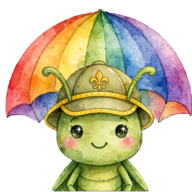
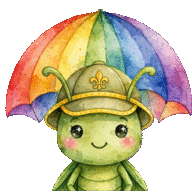
🚀 Vercel 部署瘦身與防呆：.vercelignore＋圖片 WebP/PNG8＋只部署 main
- .vercelignore 排除 docs/tests/tools/*.md、設計原檔、吉祥物母版 PNG、ICON 來源與非執行尺寸（部署 8.5MB→4.97MB）
- 吉祥物 1045KB PNG 母版保留 repo，新增 116KB WebP 供部署與 SW 快取；PWA icon 量化 PNG8（512: 330→95KB、maskable: 352→42KB 等，尺寸不變）
- sw.js 改快取 WebP 並升版 CACHE ghub-v5-1-2，舊用戶自動清舊圖
- vercel.json: git.deploymentEnabled {main:true, *:false}（只寫 main 在 Vercel 等於無限制）＋ ignoreCommand 支援 [skip ci] 與 non-deployable-only 變更跳過建置，判斷不了時 fail-open 照常部署
- tools/build-mascot.sh 內置 WebP＋PNG8 瘦身步驟，換吉祥物不會重生大檔；README 增部署一節；補 .gitignore 防止 .vercel/ 入庫

diff --git a/sw.js b/sw.js
@@ -1,8 +1,8 @@
 /* 小童軍集會助手 — Service Worker © Scout System
    策略：程式碼檔（html/js/manifest）網絡優先——有信号就即刻用最新版，离线先落到快取；
    其餘（css/圖片）快取優先（離線快）。每次改完上載，用戶下一次開 app 就會見到新版。 */
-var CACHE='ghub-v5-1-1-unofficial';
-var ASSETS=['./','./index.html','./manifest.webmanifest','./css/app.css','./js/data.js','./js/guide.js','./js/craft.js','./js/sheets.js','./js/tpls.js','./js/app.js','./js/flow.js','./js/prepare.js','./js/print.js','./js/pack.js','./js/lead.js','./js/img.js','./js/track.js','./js/handbook.js','./js/play.js','./js/kit.js','./js/venue.js','./js/chute.js','./js/song.js','./js/tools.js','./icons/icon-192.png','./icons/icon-512.png','./icons/icon-48.png','./icons/icon-512-maskable.png','./icons/apple-touch-icon.png','./icons/favicon-64.png','./icons/gh-icons.svg','./img/ghmeeting_mascot.png','./img/c-any.avif','./img/c-boat.avif','./img/c-card.avif','./img/c-decor.avif','./img/c-egg.avif','./img/c-frame.avif','./img/c-fu.avif','./img/c-junk.avif','./img/c-lantern.avif','./img/c-mask.avif','./img/c-mural.avif','./img/c-nametag.avif','./img/c-plane.avif','./img/c-popup.avif','./img/c-portrait.avif','./img/c-promise.avif','./img/chute-close.avif','./img/chute-steps.avif','./img/chute-top.avif','./img/g-ball.avif','./img/g-body.avif','./img/g-corners.avif','./img/g-faces.avif','./img/g-food.avif','./img/g-grid.avif','./img/g-judge.avif','./img/g-recycle.avif','./img/g-leader.avif','./img/g-salute.avif','./img/g-throw.avif','./img/g-traffic.avif','./img/g-wash.avif','./img/z1-wave.avif','./img/z10-flag.avif','./img/z11-merry.avif','./img/z12-cake.avif','./img/z13-shoes.avif','./img/z14-wind.avif','./img/z15-pole.avif','./img/z16-team.avif','./img/z2-typhoon.avif','./img/z3-yurt.avif','./img/z4-bubble.avif','./img/z5-swap.avif','./img/z6-tunnel.avif','./img/z7-net.avif','./img/z8-jump.avif','./img/z9-quiet.avif'];
+var CACHE='ghub-v5-1-2-unofficial';
+var ASSETS=['./','./index.html','./manifest.webmanifest','./css/app.css','./js/data.js','./js/guide.js','./js/craft.js','./js/sheets.js','./js/tpls.js','./js/app.js','./js/flow.js','./js/prepare.js','./js/print.js','./js/pack.js','./js/lead.js','./js/img.js','./js/track.js','./js/handbook.js','./js/play.js','./js/kit.js','./js/venue.js','./js/chute.js','./js/song.js','./js/tools.js','./icons/icon-192.png','./icons/icon-512.png','./icons/icon-48.png','./icons/icon-512-maskable.png','./icons/apple-touch-icon.png','./icons/favicon-64.png','./icons/gh-icons.svg','./img/ghmeeting_mascot.webp','./img/c-any.avif','./img/c-boat.avif','./img/c-card.avif','./img/c-decor.avif','./img/c-egg.avif','./img/c-frame.avif','./img/c-fu.avif','./img/c-junk.avif','./img/c-lantern.avif','./img/c-mask.avif','./img/c-mural.avif','./img/c-nametag.avif','./img/c-plane.avif','./img/c-popup.avif','./img/c-portrait.avif','./img/c-promise.avif','./img/chute-close.avif','./img/chute-steps.avif','./img/chute-top.avif','./img/g-ball.avif','./img/g-body.avif','./img/g-corners.avif','./img/g-faces.avif','./img/g-food.avif','./img/g-grid.avif','./img/g-judge.avif','./img/g-recycle.avif','./img/g-leader.avif','./img/g-salute.avif','./img/g-throw.avif','./img/g-traffic.avif','./img/g-wash.avif','./img/z1-wave.avif','./img/z10-flag.avif','./img/z11-merry.avif','./img/z12-cake.avif','./img/z13-shoes.avif','./img/z14-wind.avif','./img/z15-pole.avif','./img/z16-team.avif','./img/z2-typhoon.avif','./img/z3-yurt.avif','./img/z4-bubble.avif','./img/z5-swap.avif','./img/z6-tunnel.avif','./img/z7-net.avif','./img/z8-jump.avif','./img/z9-quiet.avif'];
 function isCode(u){
   return (u.pathname.endsWith('.html')||u.pathname.endsWith('.js')||u.pathname.endsWith('.webmanifest')||u.pathname==='/');
 }
